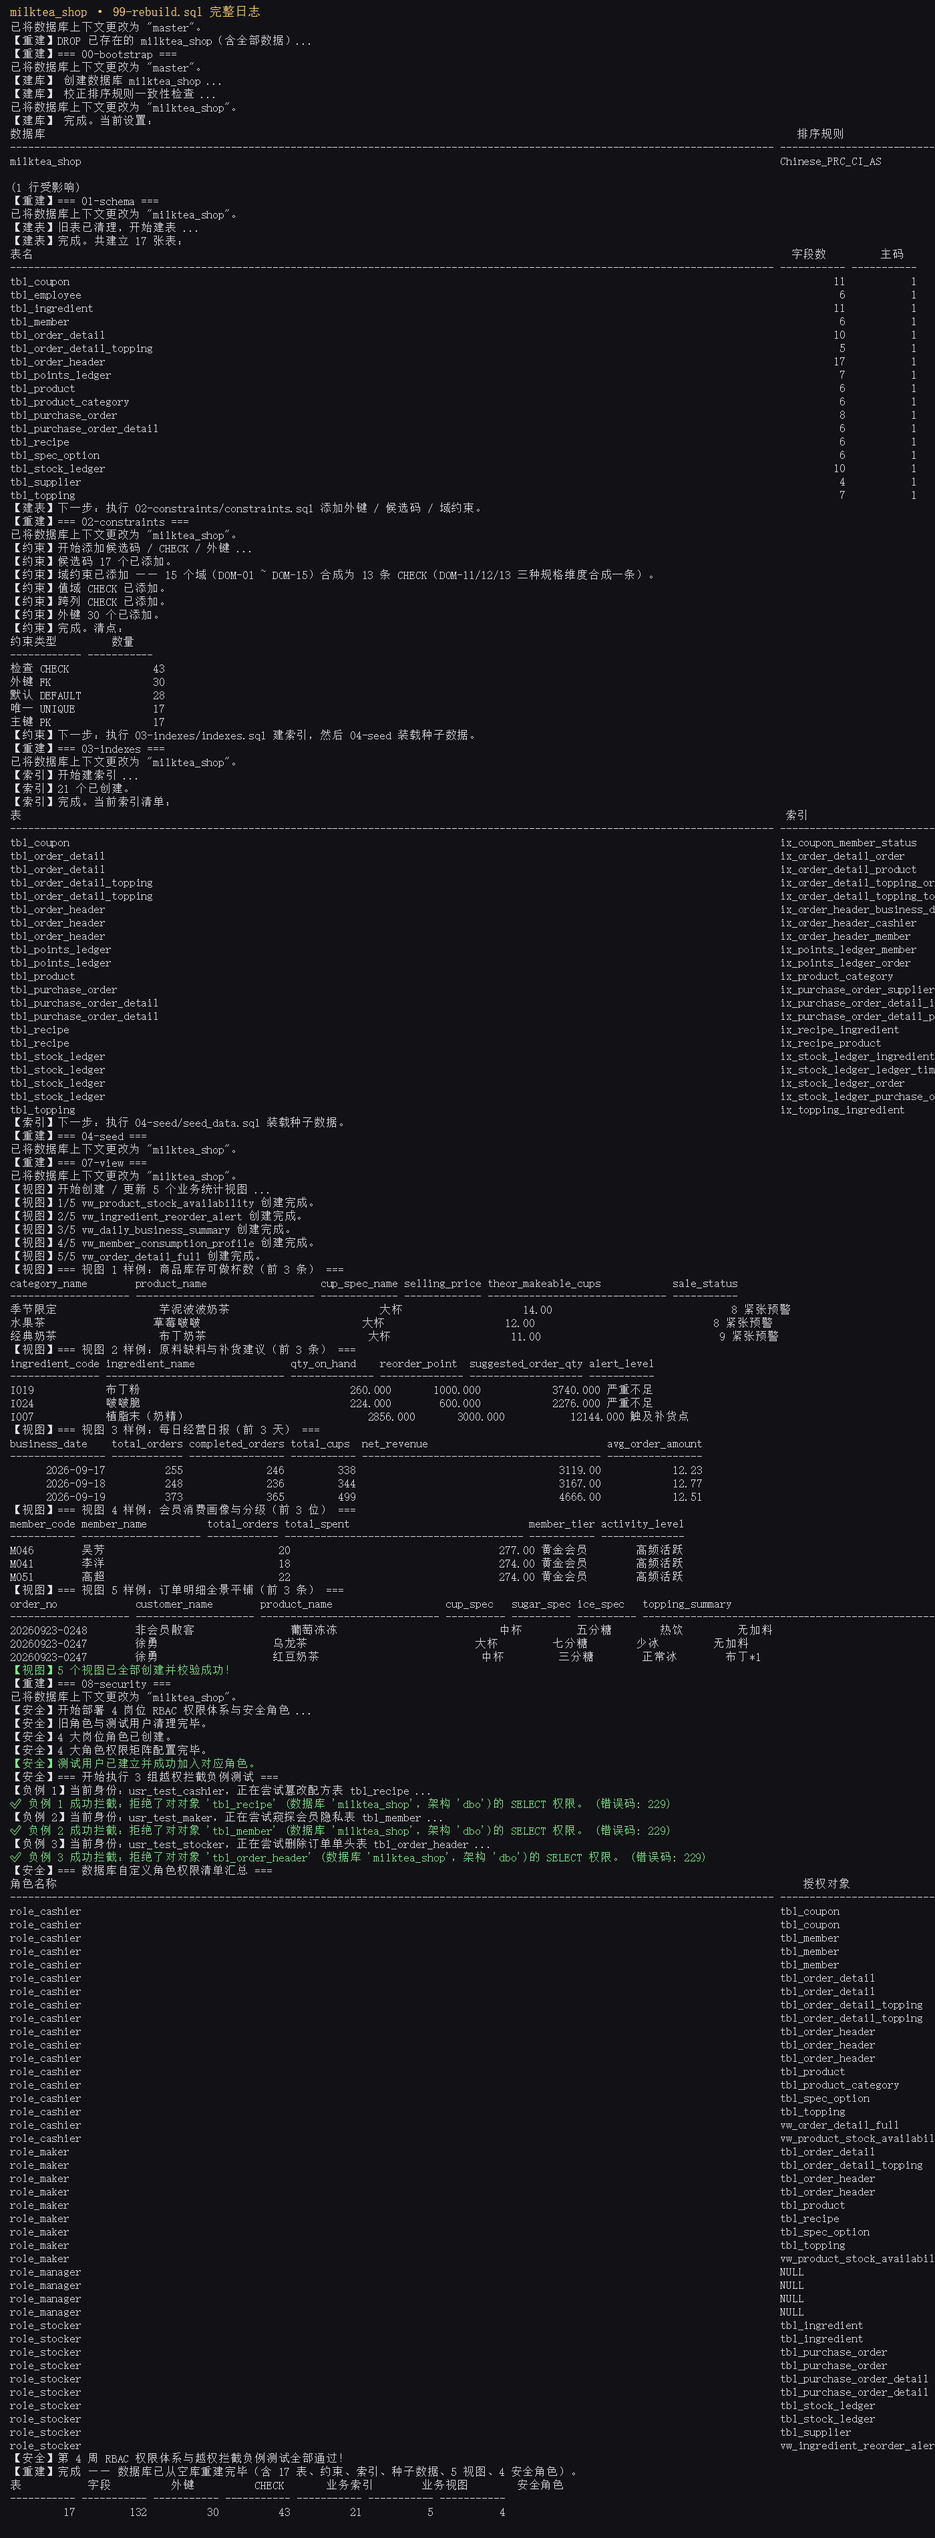
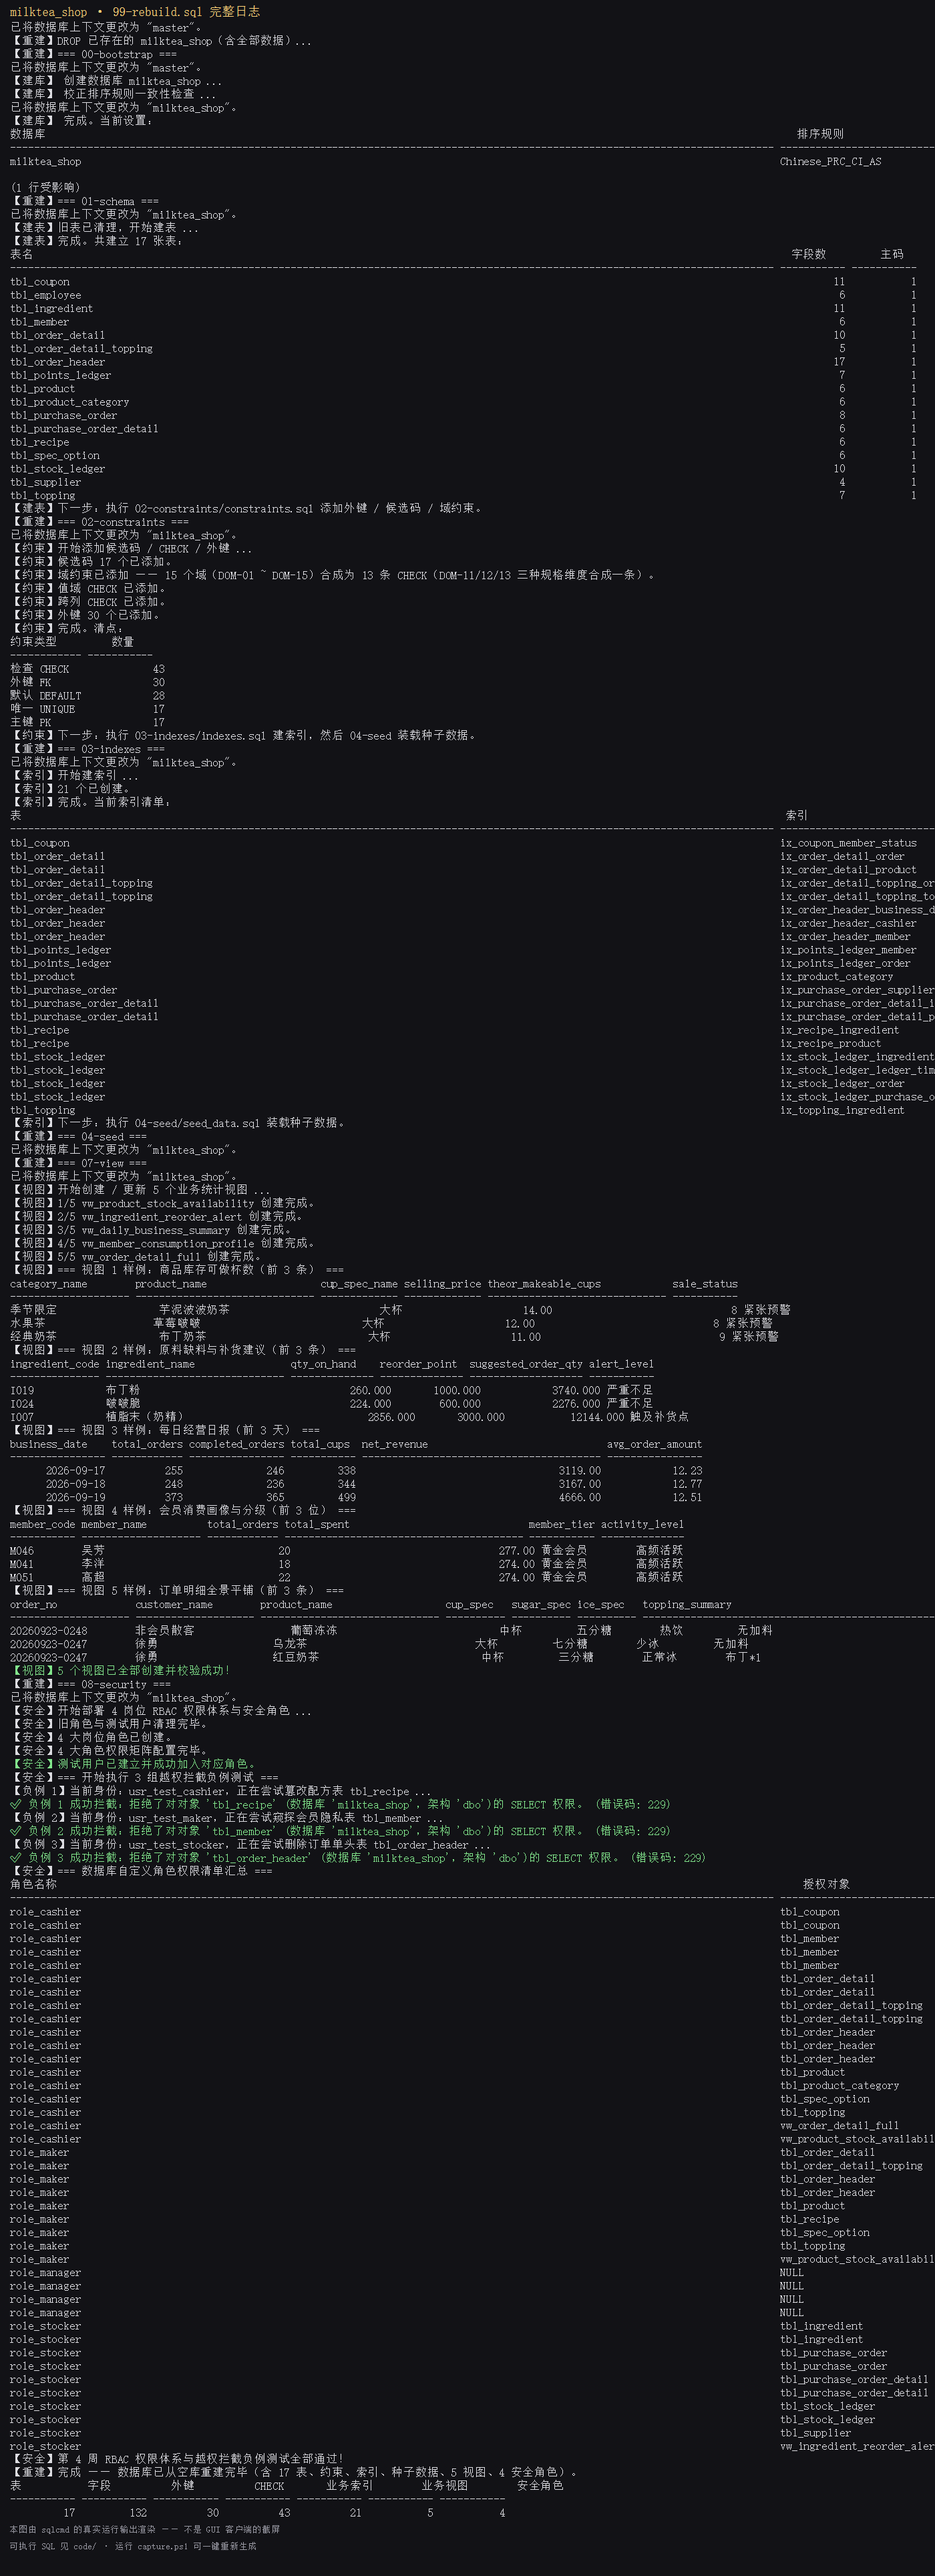
docs(result): 明确标注「渲染图 ≠ GUI 截屏」，并让每张图自带来源脚注
【问题】
之前只拍了图，没有在图上和文档里说清"这些不是 SSMS/Navicat 的界面截图"。
如果不说，读图的人会默认是图形客户端截的屏 —— 那就是误导。

【改了什么】

1. result/README.md 新增「关于『截图』的说明（请先读这一节）」
   - 明确：本目录的 png 由 render.ps1 把 sqlcmd 真实运行输出渲染而成
   - 四条理由：可复现 / 可核对（配同名 .txt）/ 可 diff / 无人工步骤
   - 「能证明什么 / 不能证明什么」对照表
   - 注明本组使用 sqlcmd 16.0；SSMS 19.3 本机已安装，可按需补拍

2. 每张图自带两行脚注（脱离 README 也不会被误读）
   本图由 sqlcmd 的真实运行输出渲染 —— 不是 GUI 客户端的截屏
   可执行 SQL 见 code/ · 运行 capture.ps1 可一键重新生成

3. 脚注分两行，避免长脚注把所有图的最小宽度撑到 702px
   （改后宽度恢复自然：518 / 567 / 530 / 517）

4. 顺带修掉标题被裁的 bug：图像宽度没把标题算进去，
   改为 width = max(表格, 标题, 脚注)

【又踩到一个 PowerShell 坑】
自定义函数名 R 撞上内置别名（r = Invoke-History），调用被劫持。
和之前 $W/$w、$pid 属于同一类：PowerShell 大小写不敏感 + 别名优先。

diff --git a/weeks/submissions/v0.1/result/README.md b/weeks/submissions/v0.1/result/README.md
@@ -8,6 +8,37 @@
 
 ---
 
+## ⚠ 关于「截图」的说明（**请先读这一节**）
+
+**本目录的 `.png` 不是用图形客户端（SSMS / Navicat / DBeaver）手工截的屏**，
+而是由 [`render.ps1`](render.ps1) **把 `sqlcmd` 的真实运行输出渲染成图片**。
+
+**为什么不用 GUI 截屏**
+
+| 理由 | 说明 |
+|---|---|
+| **可复现** | 课程硬性要求"从空库按 README 执行能够复现"。换一台机器跑 [`capture.ps1`](capture.ps1) 能生成**同一批图**；手工截屏做不到 |
+| **可核对** | 每张 `.png` 旁边有同名 `.txt`，是**未经修改的 sqlcmd 原始输出**。图与文若不一致，立刻能发现 |
+| **可 diff** | `.txt` 能进 git 做版本对比；图片不能 |
+| **无人工步骤** | 不依赖"某个人当时记得截了哪一张、截得清不清楚" |
+
+**它证明了什么 / 没证明什么**
+
+| ✅ 这些图**能**证明 | ❌ 这些图**不能**证明 |
+|---|---|
+| 这些 SQL **确实在 SQL Server 2022 上执行过**并产生了该输出 | 截图**不是**图形客户端的界面外观 |
+| 约束与权限的**拦截是引擎真实抛出的**（`Msg 229` / `Msg 547` 等） | |
+| 结果**可原样重跑** —— `capture.ps1` 一键刷新全部图 | |
+
+> **判定依据**：课程第 63 行明确「**截图只能作为证据，提交内容仍要包含可以重新执行的 SQL 脚本**」。
+> 我们把"可重新执行的 SQL"放在 `code/`，"证据"放在本目录，两者**一一对应**。
+>
+> **本组使用的数据库客户端**：命令行 **`sqlcmd` 16.0**（`SQLCMD.EXE`）。
+> 图形工具 **SQL Server Management Studio 19.3** 本机已安装；
+> 若需要"图形界面外观"的截图，可随时补拍（见文末）。
+
+---
+
 ## 命名与配对规则
 
 | 规则 | 说明 |
